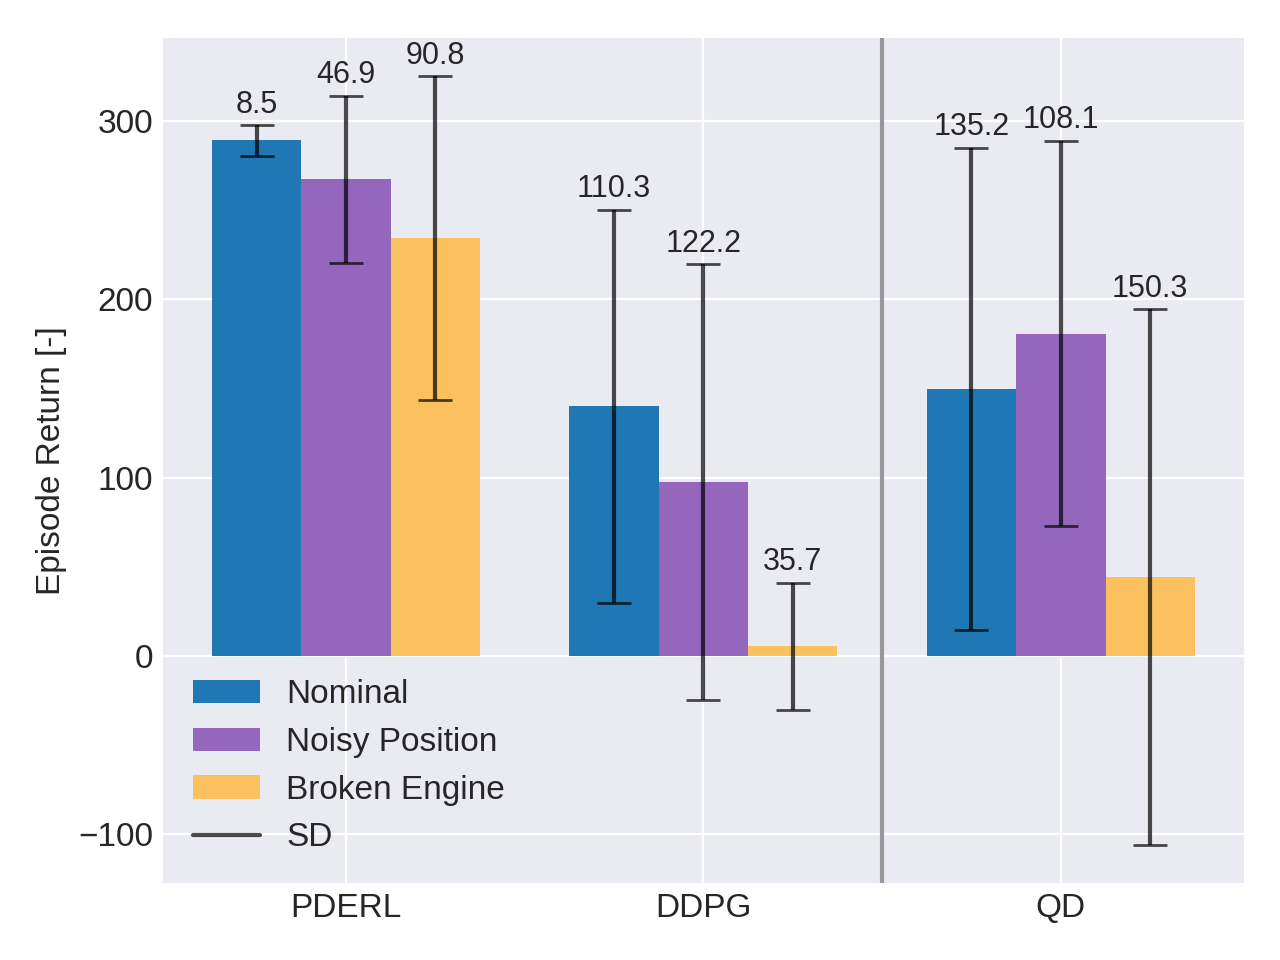
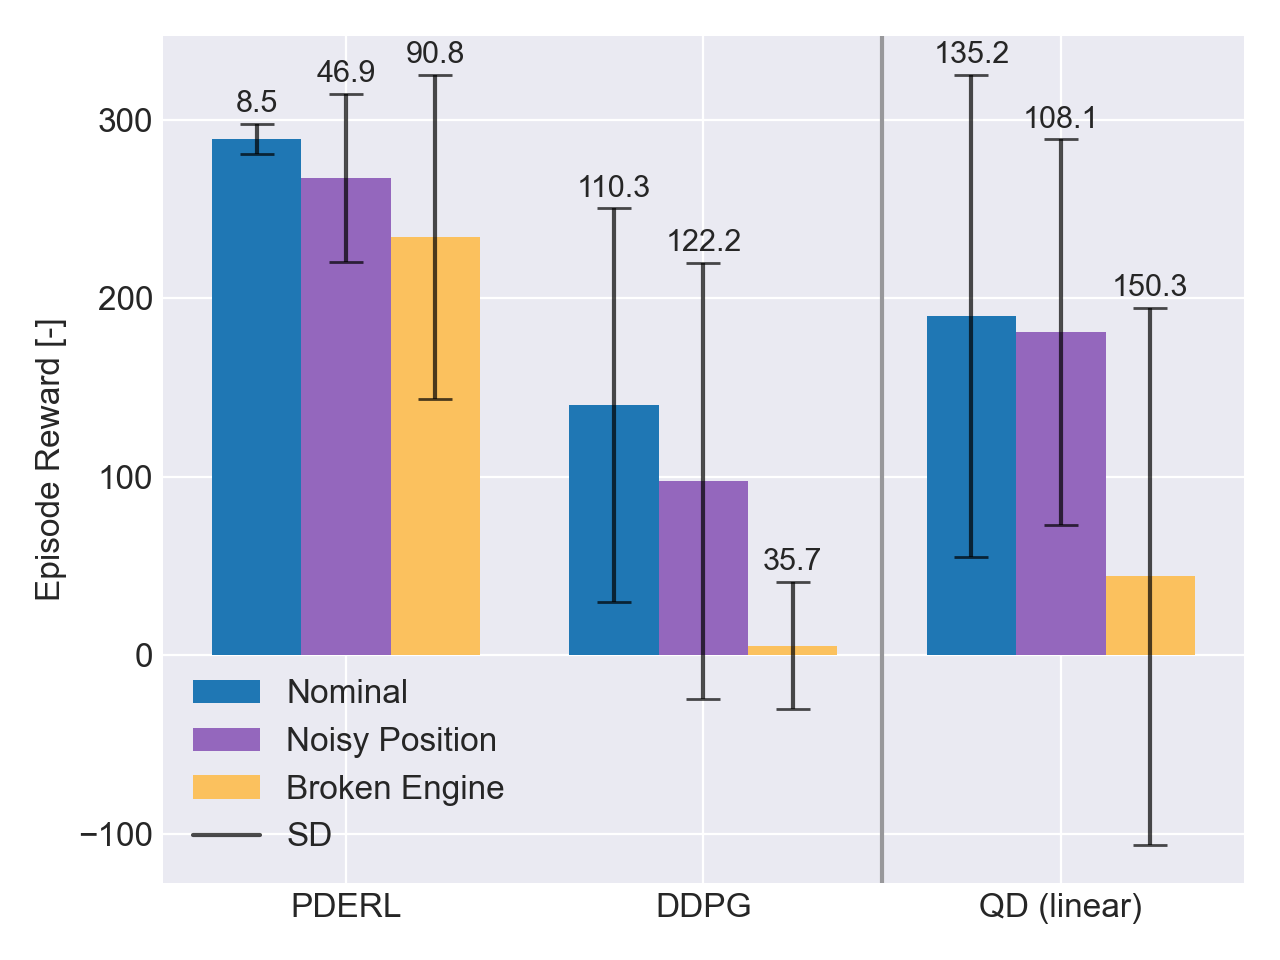
Updated plots

diff --git a/Results_pderl/evaluate_results.py b/Results_pderl/evaluate_results.py
@@ -40,8 +40,8 @@ def plot_games(ddpg_score, ddpg_std, erl_score, erl_avg, erl_std, games_ddpg):
     ax.plot(games_ddpg, ddpg_score, label = 'DDPG', color = color_ddpg, linestyle = '--')
     ax.fill_between(games_ddpg, ddpg_score - ddpg_std, ddpg_score+ ddpg_std, color=color_ddpg,alpha=0.4)
 
-    ax.plot(games_ddpg, erl_avg, linestyle = '-.', label = 'PDERL (average)', color=color_erl)
-    ax.plot(games_ddpg, erl_score, linestyle = '-', label = 'PDERL (max)', color=color_erl)
+    ax.plot(games_ddpg, erl_avg, linestyle = '-.', label = 'PDERL - Population average', color=color_erl)
+    ax.plot(games_ddpg, erl_score, linestyle = '-', label = 'PDERL - Champion', color=color_erl)
     ax.fill_between(games_ddpg, erl_score - erl_std, erl_score+ erl_std, color=color_erl, alpha=0.4)
     ax.set_ylabel("Reward [-]")
     ax.set_xlabel(r"Games [-]")
@@ -64,8 +64,8 @@ def plot_frames(ddpg_score, ddpg_std, erl_score, erl_avg, erl_std, frames_ddpg):
     ax.plot(frames_ddpg//f2e, ddpg_score, label = 'DDPG', color=color_ddpg, linestyle = '--')
     ax.fill_between(frames_ddpg//f2e, ddpg_score - ddpg_std, ddpg_score + ddpg_std, color=color_ddpg,alpha=0.4)
 
-    ax.plot(frames_ddpg//f2e, erl_avg,linestyle = '-.', label = 'PDERL', color=color_erl)
-    ax.plot(frames_ddpg//f2e, erl_score, linestyle = '-', label = 'PDERL (max)', color=color_erl)
+    ax.plot(frames_ddpg//f2e, erl_avg,linestyle = '-.', label = 'PDERL - Population average', color=color_erl)
+    ax.plot(frames_ddpg//f2e, erl_score, linestyle = '-', label = 'PDERL - Champion', color=color_erl)
     ax.fill_between(frames_ddpg//f2e, erl_score - erl_std, erl_score + erl_std, color=color_erl, alpha=0.4)
     ax.set_ylabel("Reward [-]")
     ax.set_xlabel(r"Epochs [frames]")
@@ -81,7 +81,7 @@ def plot_frames(ddpg_score, ddpg_std, erl_score, erl_avg, erl_std, frames_ddpg):
 def plot_fault_tolerancy():
     erl_r = 289.2; erl_std = 8.46
     ddpg_r = 140; ddpg_std = 110.31
-    qd_r = 150; qd_std = 135.21
+    qd_r = 190; qd_std = 135.21
 
     # broken engine fault
     erl_r_faulty = 234.38; erl_std_faulty = 90.78
@@ -94,7 +94,7 @@ def plot_fault_tolerancy():
     ddpg_r_noise = 97.64; ddpg_std_noise = 122.2
     qd_r_noise = 180.86; qd_std_noise= 108.12
 
-    labels = ('PDERL', 'DDPG', 'QD')
+    labels = ('PDERL', 'DDPG', 'QD (linear)')
     nominal_r= [erl_r, ddpg_r,qd_r]; nominal_std = [erl_std,ddpg_std, qd_std]
     broken_eng_r = [erl_r_faulty, ddpg_r_faulty,qd_r_faulty]; broken_eng_std= [erl_std_faulty,ddpg_std_faulty, qd_std_faulty]
     noisy_state_r = [erl_r_noise, ddpg_r_noise,qd_r_noise]; noisy_state_std= [erl_std_noise,ddpg_std_noise, qd_std_noise]
@@ -216,6 +216,6 @@ if __name__ == '__main__':
     if do_plot:
         plot_games(ddpg_score[start_idx:], ddpg_std[start_idx:], erl_score[start_idx:], erl_avg[start_idx:], erl_std[start_idx:], games_ddpg[start_idx:])
         plot_frames(ddpg_score[start_idx:], ddpg_std[start_idx:], erl_score[start_idx:], erl_avg[start_idx:],  erl_std[start_idx:], frames_ddpg[start_idx:])
-        # plot_fault_tolerancy()
+        plot_fault_tolerancy()
         plt.show()
 

diff --git a/TODO.md b/TODO.md
@@ -41,10 +41,14 @@
 - [x] Finish writing about PDERL: 
   - [x] figure
   - [x] tricks
-  - [ ] results
+  - [x] results
+
+
+> week12: 23/05 - 27/05
+- [ ] Rerun archive map on LunarLander Nominal
+- [ ] Explain the testing environment
 - [ ] Write DRL in flight Control
-
-
+- [ ] 
 <!-- % \item Code a simple combination between QD and a ERL framework (most probably PD-ERL) -->
 ## Report Writing:
 - [x] Novelty search and QD intro
